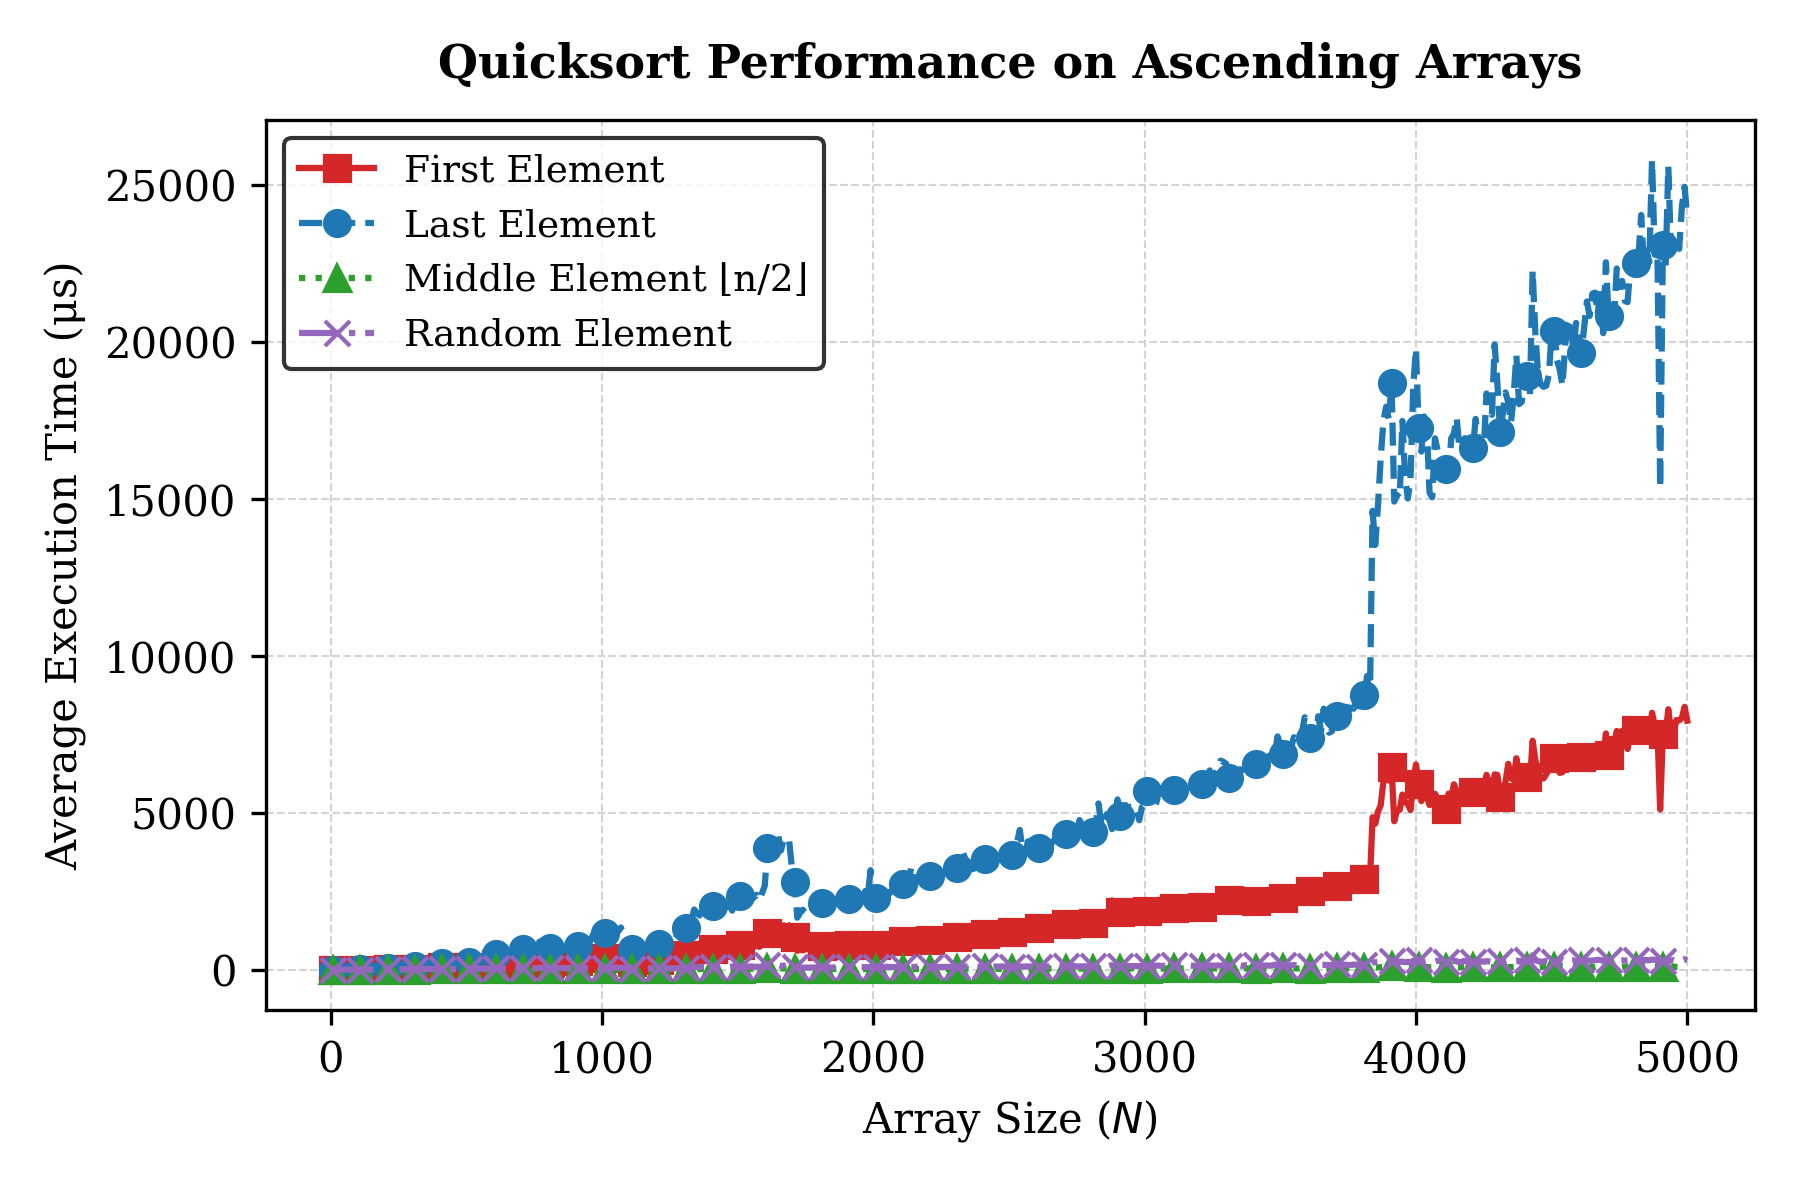
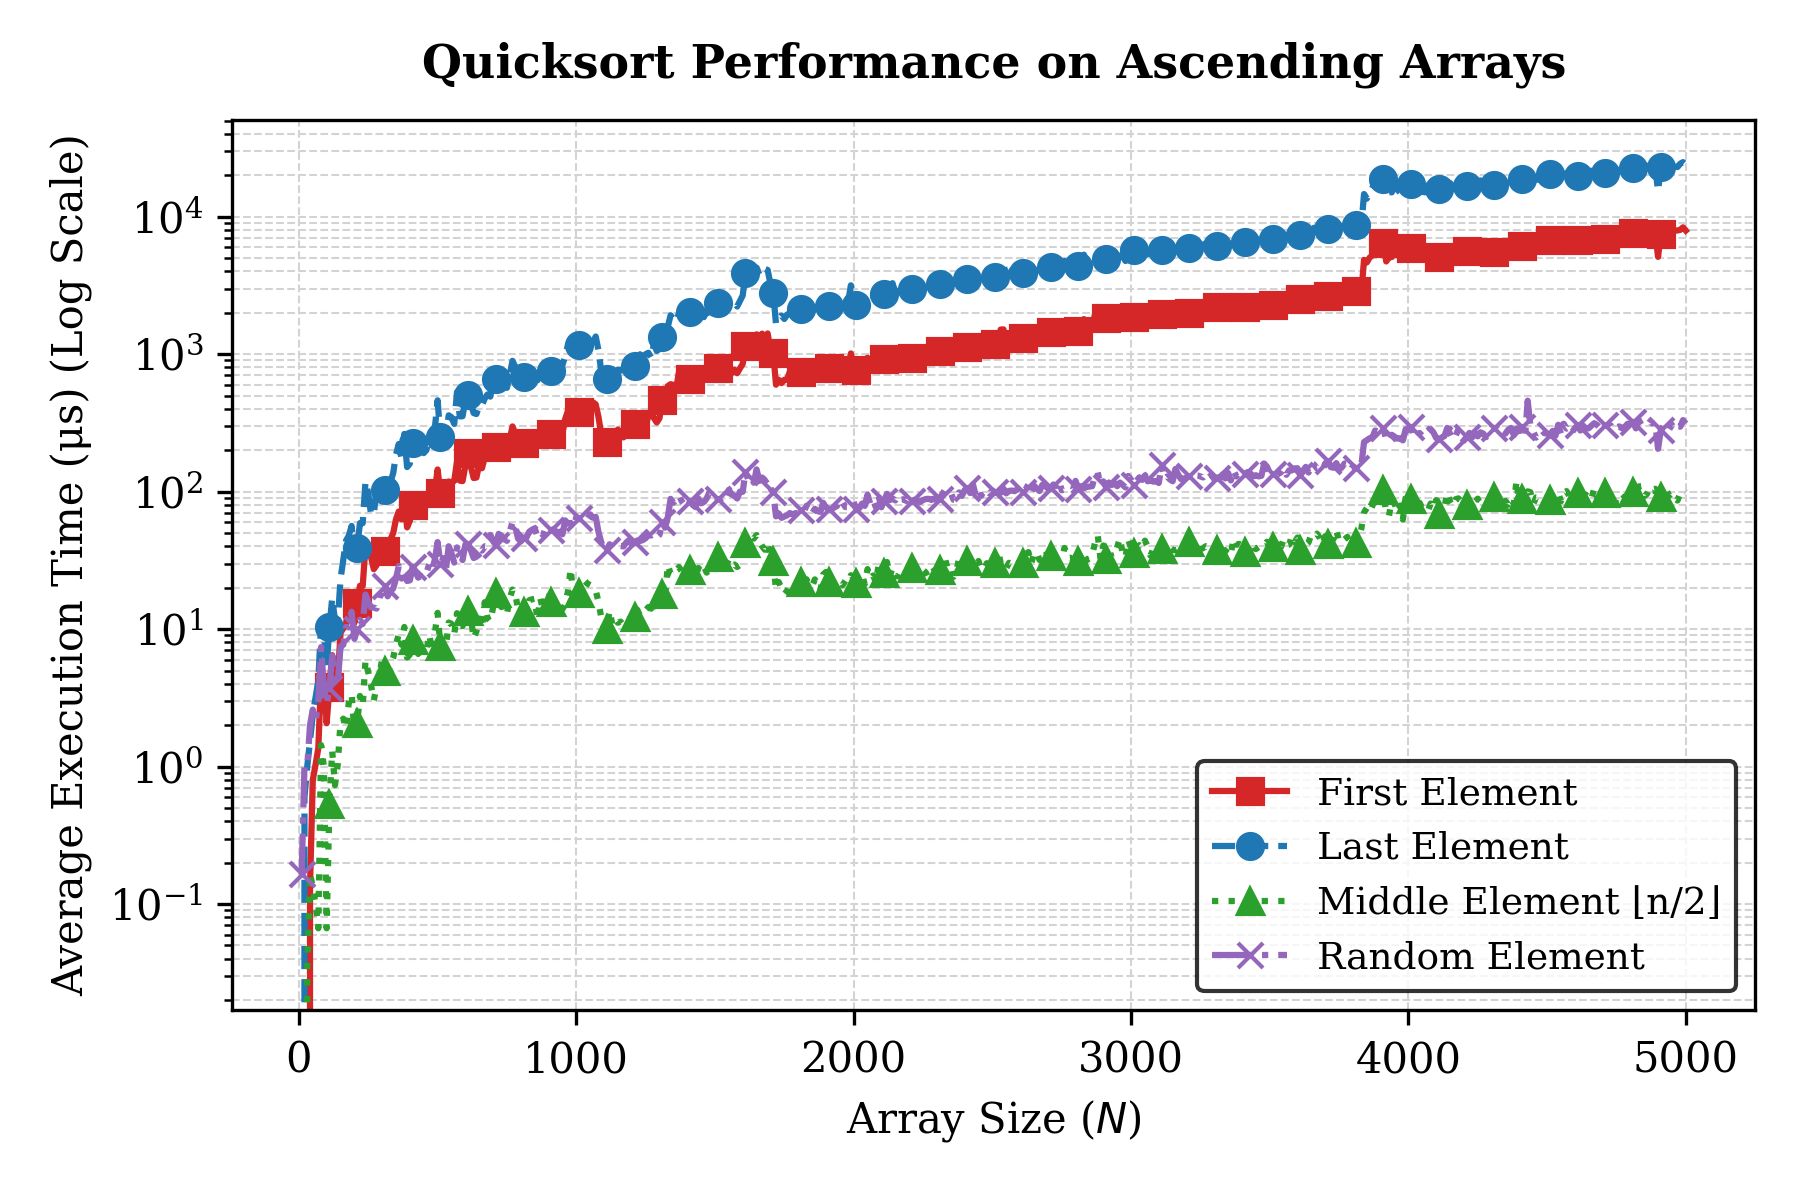
Update graphs to log-scale, regenerate PDF report, and add formatted Excel benchmark sheet

Changed region(s): [[0.0311, 0.0308, 0.9644, 0.8942], [0.4667, 0.925, 0.6533, 0.9558], [0.9022, 0.8633, 0.9644, 0.8942]]

diff --git a/generate_excel.py b/generate_excel.py
@@ -1,0 +1,74 @@
+import os
+import pandas as pd
+
+def generate_excel_workbook():
+    script_dir = os.path.dirname(os.path.abspath(__file__))
+    data_dir = os.path.join(script_dir, "data")
+    output_path = os.path.join(script_dir, "Quicksort_Benchmark_Data.xlsx")
+    
+    # Load raw CSV files
+    csv_files = {
+        "Random Distribution": "random_results.csv",
+        "Ascending Distribution": "ascending_results.csv",
+        "Descending Distribution": "descending_results.csv"
+    }
+    
+    # Write to Excel using xlsxwriter for formatting
+    with pd.ExcelWriter(output_path, engine='xlsxwriter') as writer:
+        workbook = writer.book
+        
+        # Define formats for headers and data
+        header_format = workbook.add_format({
+            'bold': True,
+            'font_name': 'Segoe UI',
+            'font_size': 11,
+            'font_color': 'white',
+            'bg_color': '#1F4E79',
+            'align': 'center',
+            'valign': 'vcenter',
+            'border': 1
+        })
+        
+        number_format = workbook.add_format({
+            'font_name': 'Segoe UI',
+            'font_size': 10,
+            'num_format': '#,##0.0',
+            'align': 'right'
+        })
+        
+        size_format = workbook.add_format({
+            'font_name': 'Segoe UI',
+            'font_size': 10,
+            'align': 'center'
+        })
+        
+        for sheet_name, filename in csv_files.items():
+            csv_path = os.path.join(data_dir, filename)
+            df = pd.read_csv(csv_path)
+            
+            # Write data to sheet
+            df.to_excel(writer, sheet_name=sheet_name, index=False, startrow=0)
+            
+            worksheet = writer.sheets[sheet_name]
+            
+            # Show gridlines explicitly
+            worksheet.hide_gridlines(2)
+            
+            # Freeze the top row so headers stick when scrolling
+            worksheet.freeze_panes(1, 0)
+            
+            # Format the header row
+            for col_num, value in enumerate(df.columns.values):
+                worksheet.write(0, col_num, value, header_format)
+                
+            # Set columns widths and alignment
+            worksheet.set_column('A:A', 15, size_format)  # Size column
+            worksheet.set_column('B:E', 15, number_format) # Time columns (First, Last, Middle, Random)
+            
+            # Set row heights
+            worksheet.set_row(0, 24) # Header row height
+            
+    print(f"Successfully generated formatted Excel workbook: {output_path}")
+
+if __name__ == "__main__":
+    generate_excel_workbook()

diff --git a/generate_pdf.py b/generate_pdf.py
@@ -440,7 +440,7 @@ def build_pdf():
     img2 = Image(os.path.join(plot_dir, "plot_ascending.png"), width=4.5*inch, height=3.0*inch)
     img2.hAlign = 'CENTER'
     story.append(img2)
-    story.append(Paragraph("Figure 2: Performance bifurcation on ascendingly sorted arrays (linear scale).", caption_style))
+    story.append(Paragraph("Figure 2: Performance bifurcation on ascendingly sorted arrays (logarithmic scale).", caption_style))
 
     story.append(PageBreak())
 
@@ -464,7 +464,7 @@ def build_pdf():
     img3 = Image(os.path.join(plot_dir, "plot_descending.png"), width=4.5*inch, height=3.0*inch)
     img3.hAlign = 'CENTER'
     story.append(img3)
-    story.append(Paragraph("Figure 3: Performance bifurcation on descendingly sorted arrays (linear scale).", caption_style))
+    story.append(Paragraph("Figure 3: Performance bifurcation on descendingly sorted arrays (logarithmic scale).", caption_style))
     
     story.append(PageBreak())
 

diff --git a/plot/generate_plots.py b/plot/generate_plots.py
@@ -23,8 +23,9 @@ def plot_results(csv_file, title, output_name, y_label="Average Execution Time (
     for strategy, style in styles.items():
         plt.plot(df['Size'], df[strategy], **style)
         
+    plt.yscale('log')
     plt.xlabel('Array Size ($N$)', fontsize=10)
-    plt.ylabel(y_label, fontsize=10)
+    plt.ylabel(y_label + " (Log Scale)", fontsize=10)
     plt.title(title, fontsize=11, fontweight='bold', pad=10)
     plt.grid(True, which='both', color='lightgray', linestyle='--', linewidth=0.5)
     plt.legend(loc='best', frameon=True, edgecolor='black', fontsize=9)